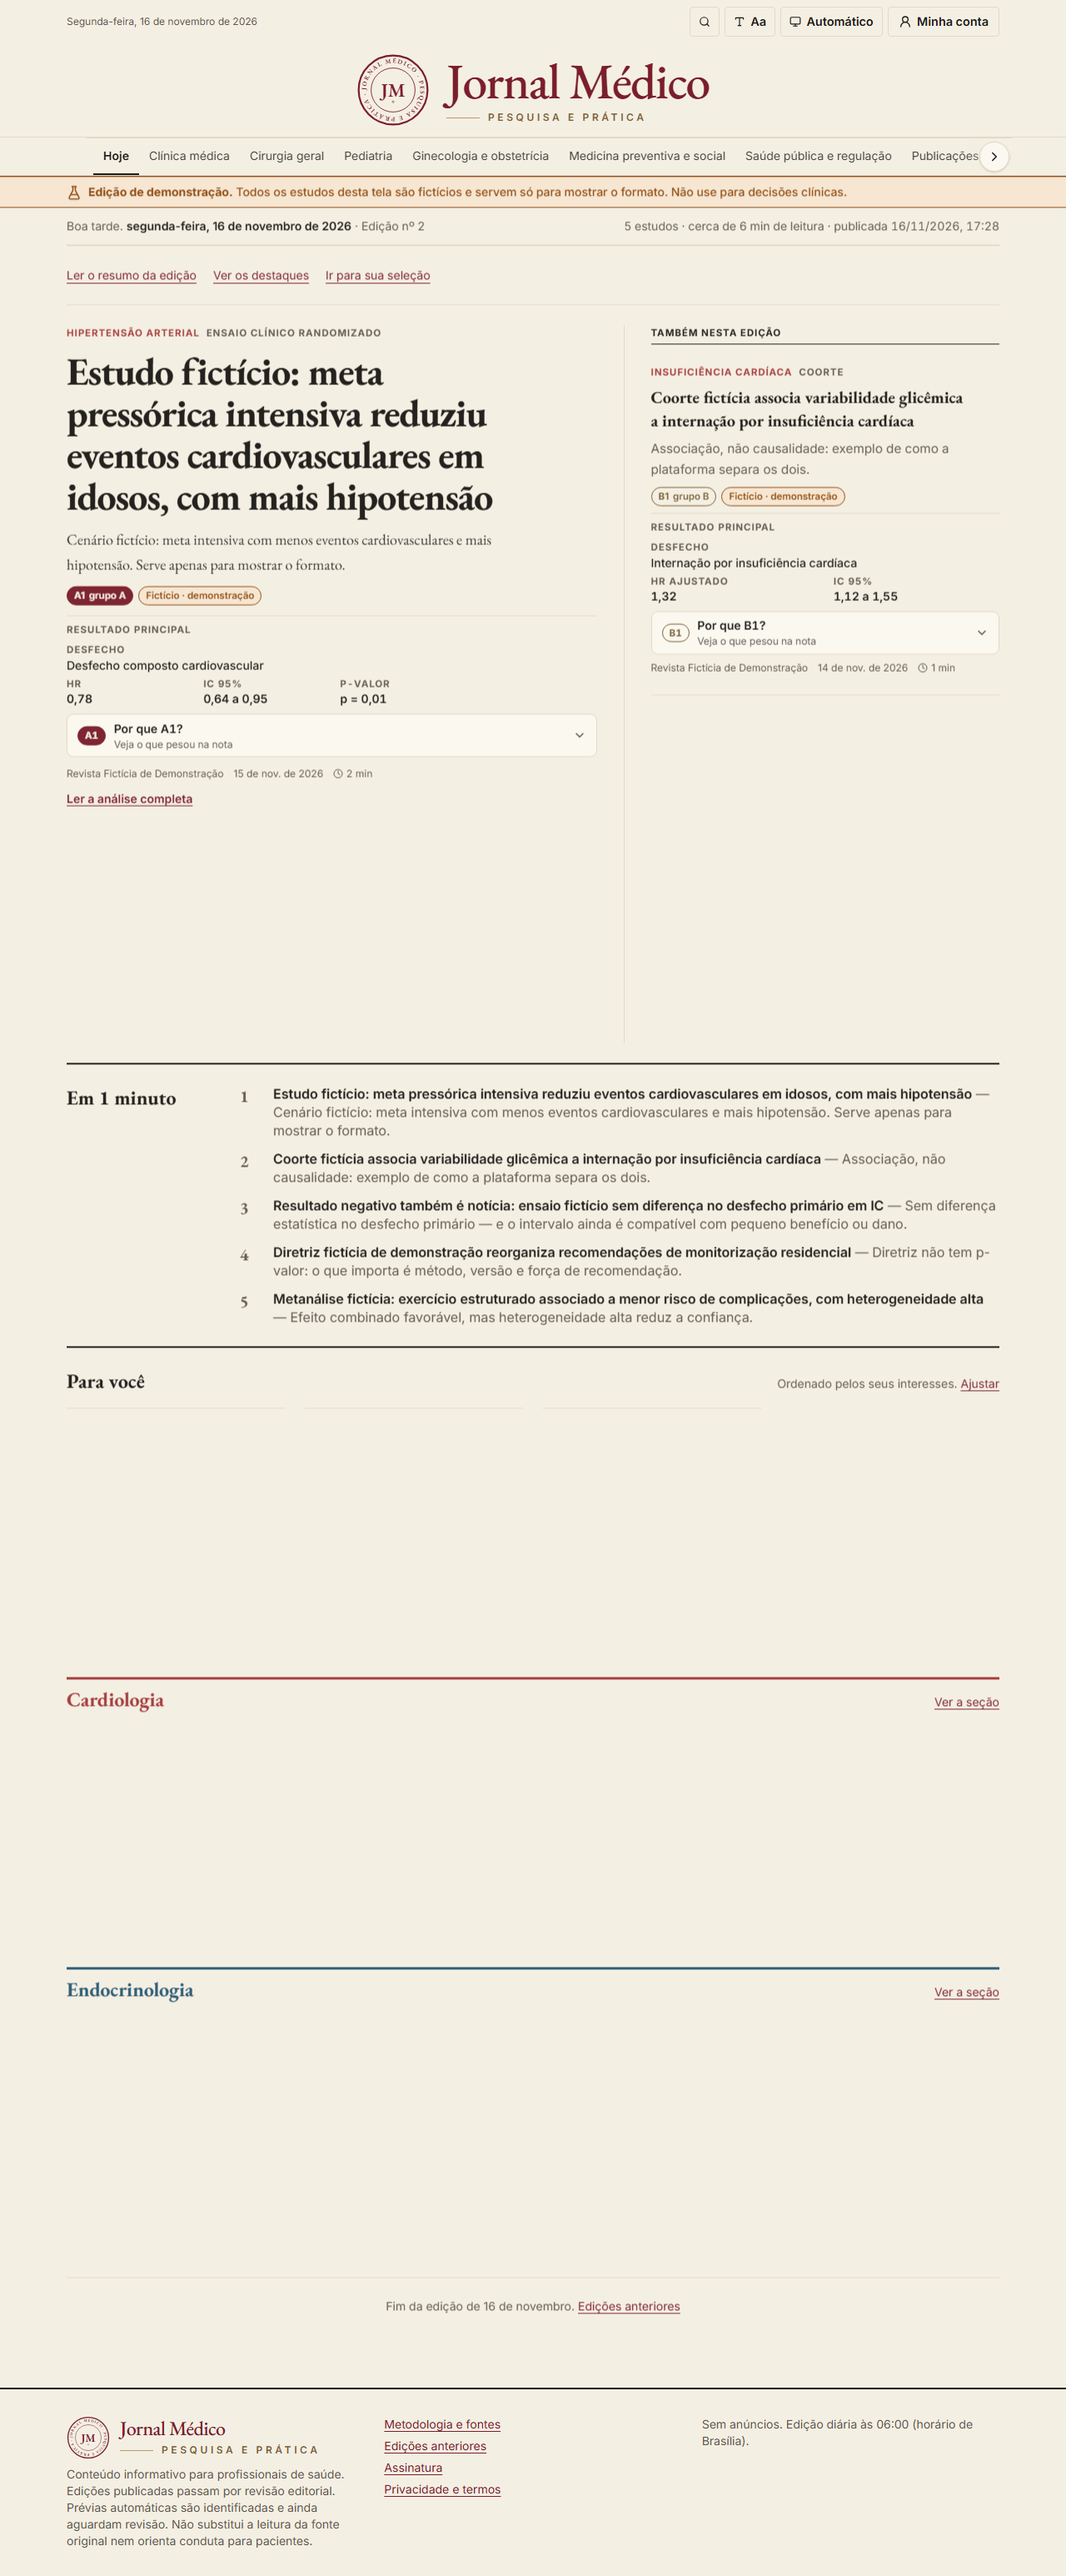
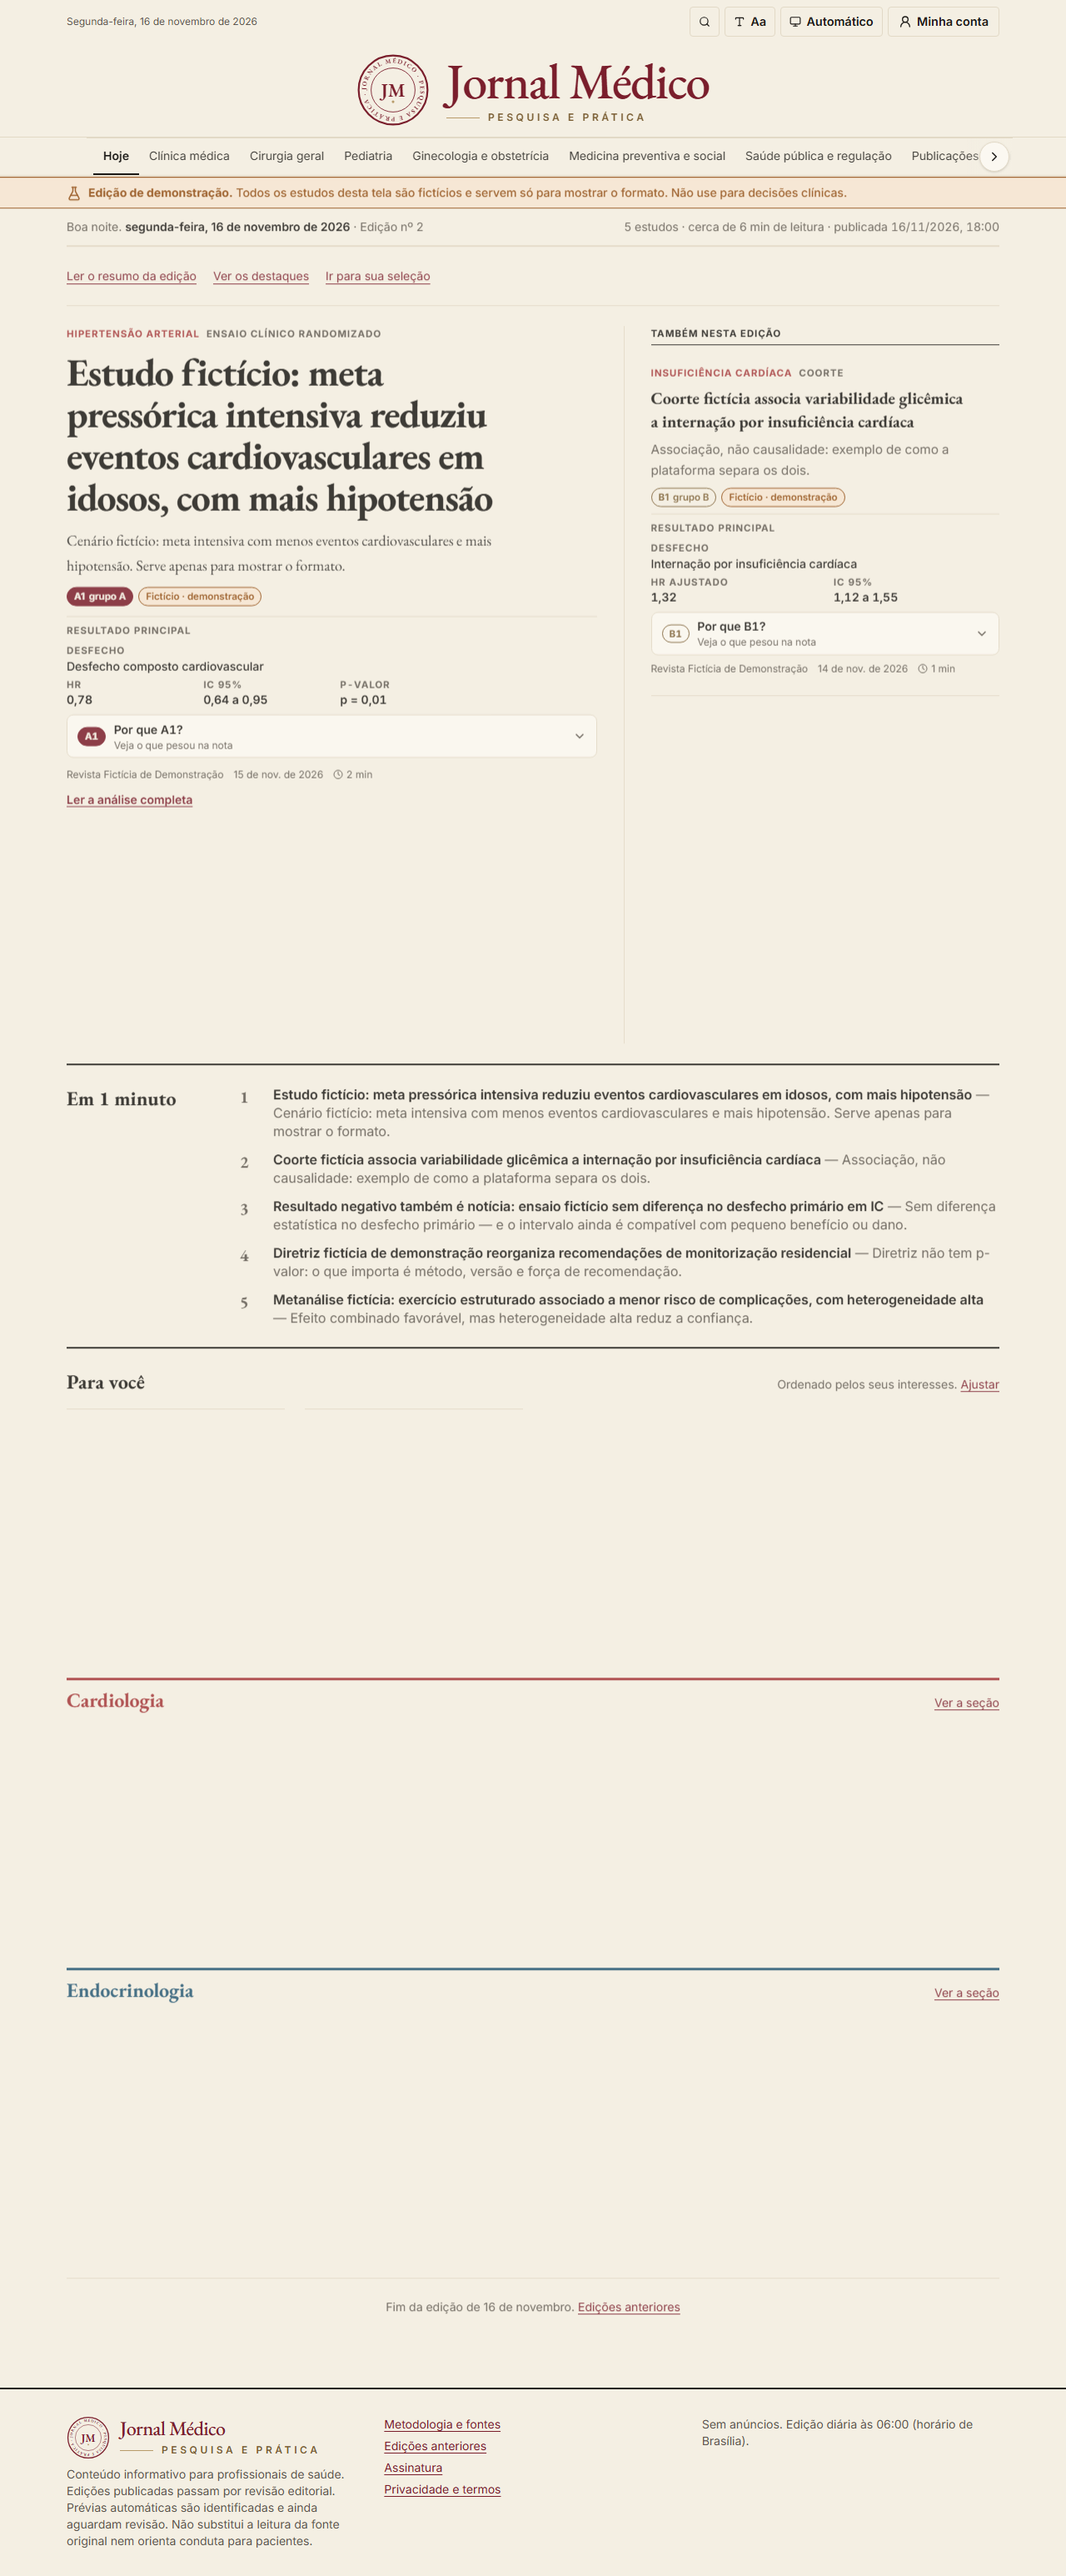
Tema escuro V3: dourado sobre tinta

diff --git a/apps/web/src/styles/app.css b/apps/web/src/styles/app.css
@@ -27,39 +27,39 @@
 
 @media (prefers-color-scheme: dark) {
   :root:not([data-theme="light"]) {
-    --color-paper: #16120f;
-    --color-surface: #1f1a16;
-    --color-ink: #f1ebdd;
-    --color-muted: #b8ae9c;
-    --color-line: #3a322a;
-    --color-line-strong: #f1ebdd;
-    --color-primary: #e7a2ab;
-    --color-primary-soft: #33191d;
-    --color-accent: #d7bd8c;
+    --color-paper: #14120f;
+    --color-surface: #1e1b16;
+    --color-ink: #ece4d2;
+    --color-muted: #a89f8e;
+    --color-line: #3a3226;
+    --color-line-strong: #ece4d2;
+    --color-primary: #c9a96e;
+    --color-primary-soft: #2a2318;
+    --color-accent: #e2d9c6;
     --color-gold: #b89b6a;
-    --color-warning: #eda766;
-    --color-warning-soft: #2f2214;
+    --color-warning: #e39a5b;
+    --color-warning-soft: #2b2014;
     --color-danger: #f28b82;
     --color-danger-soft: #3a1a17;
-    --color-on-primary: #1c1a17;
+    --color-on-primary: #14120f;
   }
 }
 :root[data-theme="dark"] {
-  --color-paper: #16120f;
-  --color-surface: #1f1a16;
-  --color-ink: #f1ebdd;
-  --color-muted: #b8ae9c;
-  --color-line: #3a322a;
-  --color-line-strong: #f1ebdd;
-  --color-primary: #e7a2ab;
-  --color-primary-soft: #33191d;
-  --color-accent: #d7bd8c;
+  --color-paper: #14120f;
+  --color-surface: #1e1b16;
+  --color-ink: #ece4d2;
+  --color-muted: #a89f8e;
+  --color-line: #3a3226;
+  --color-line-strong: #ece4d2;
+  --color-primary: #c9a96e;
+  --color-primary-soft: #2a2318;
+  --color-accent: #e2d9c6;
   --color-gold: #b89b6a;
-  --color-warning: #eda766;
-  --color-warning-soft: #2f2214;
+  --color-warning: #e39a5b;
+  --color-warning-soft: #2b2014;
   --color-danger: #f28b82;
   --color-danger-soft: #3a1a17;
-  --color-on-primary: #1c1a17;
+  --color-on-primary: #14120f;
 }
 
 html {
@@ -161,9 +161,9 @@ details[open] > nav { transform-origin: top right; }
 .topic-text { color: var(--topic, var(--color-primary)); }
 .topic-rule { border-top: 3px solid var(--topic, var(--color-primary)); }
 @media (prefers-color-scheme: dark) {
-  :root:not([data-theme="light"]) .topic-text { color: color-mix(in srgb, var(--topic, #e7a2ab) 45%, #ffffff); }
+  :root:not([data-theme="light"]) .topic-text { color: color-mix(in srgb, var(--topic, #c9a96e) 45%, #ffffff); }
 }
-:root[data-theme="dark"] .topic-text { color: color-mix(in srgb, var(--topic, #e7a2ab) 45%, #ffffff); }
+:root[data-theme="dark"] .topic-text { color: color-mix(in srgb, var(--topic, #c9a96e) 45%, #ffffff); }
 
 /* Leitura editorial: números em sans, texto corrido com medida confortável. */
 body { line-height: 1.6; }

diff --git a/apps/web/index.html b/apps/web/index.html
@@ -6,7 +6,7 @@
     <title>Jornal Médico — atualização científica diária</title>
     <meta name="description" content="Jornal diário de atualização médica baseado em evidências: estudos selecionados, resumos em português, números com intervalo de confiança e link para a fonte original." />
     <meta name="theme-color" content="#F4EFE3" media="(prefers-color-scheme: light)" />
-    <meta name="theme-color" content="#16120F" media="(prefers-color-scheme: dark)" />
+    <meta name="theme-color" content="#14120F" media="(prefers-color-scheme: dark)" />
     <script src="/theme.js"></script>
     <link rel="icon" href="/favicon.svg" type="image/svg+xml" />
     <link rel="preconnect" href="https://fonts.googleapis.com" />

diff --git a/tests/e2e/flow.spec.ts b/tests/e2e/flow.spec.ts
@@ -176,7 +176,7 @@ test('acessibilidade básica: link de pular, botões com nome, foco visível, te
   await expect(page.locator('html')).toHaveAttribute('data-theme', 'dark');
   await page.screenshot({ path: `${SHOTS}/jornal-escuro.png` });
   const bg = await page.evaluate(() => getComputedStyle(document.body).backgroundColor);
-  expect(bg).toBe('rgb(22, 18, 15)');
+  expect(bg).toBe('rgb(20, 18, 15)');
 });
 
 test('leitura ampliada no celular mantém resultados acessíveis', async ({ page }) => {
